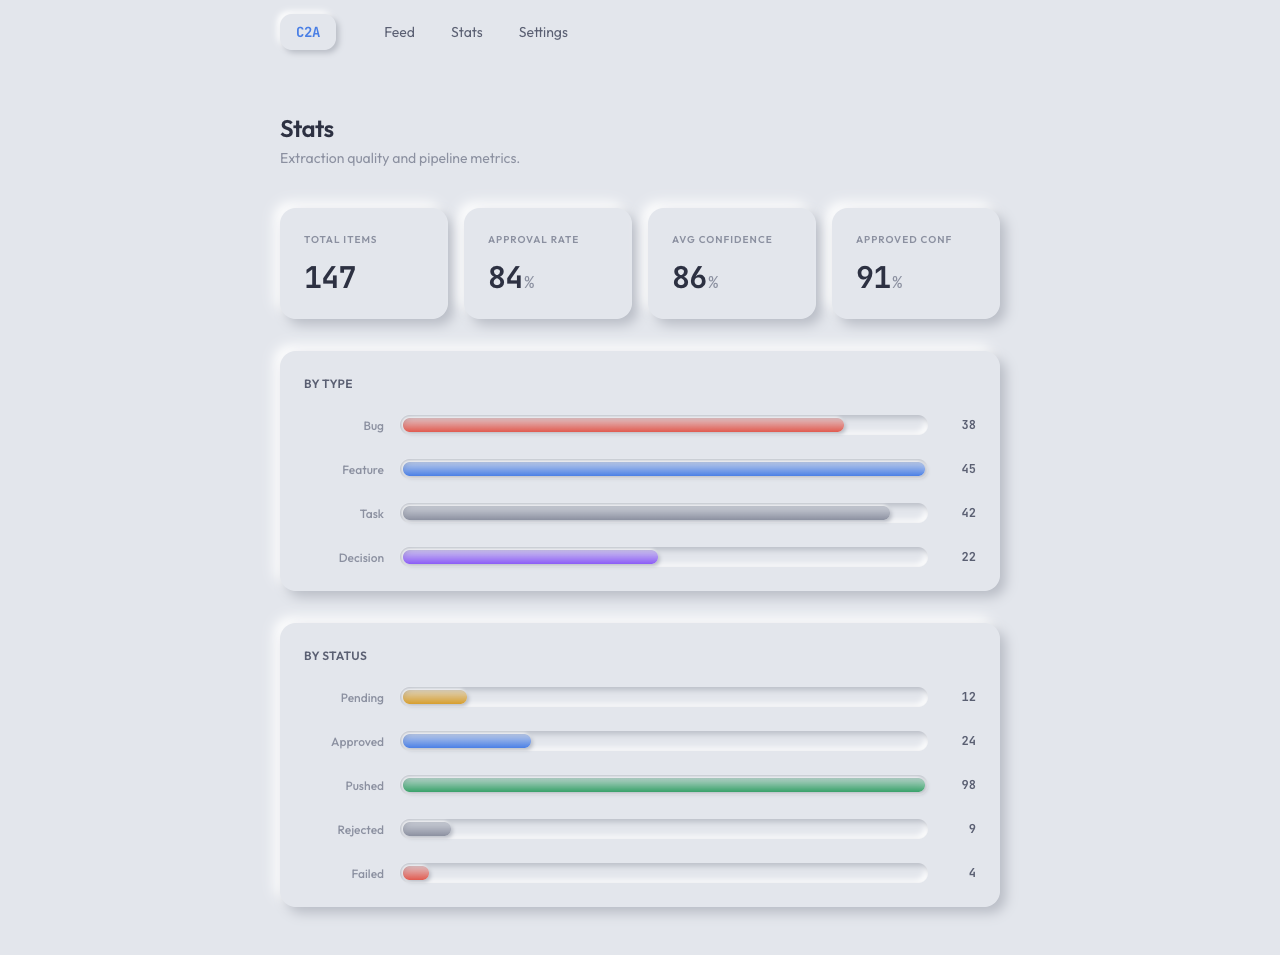
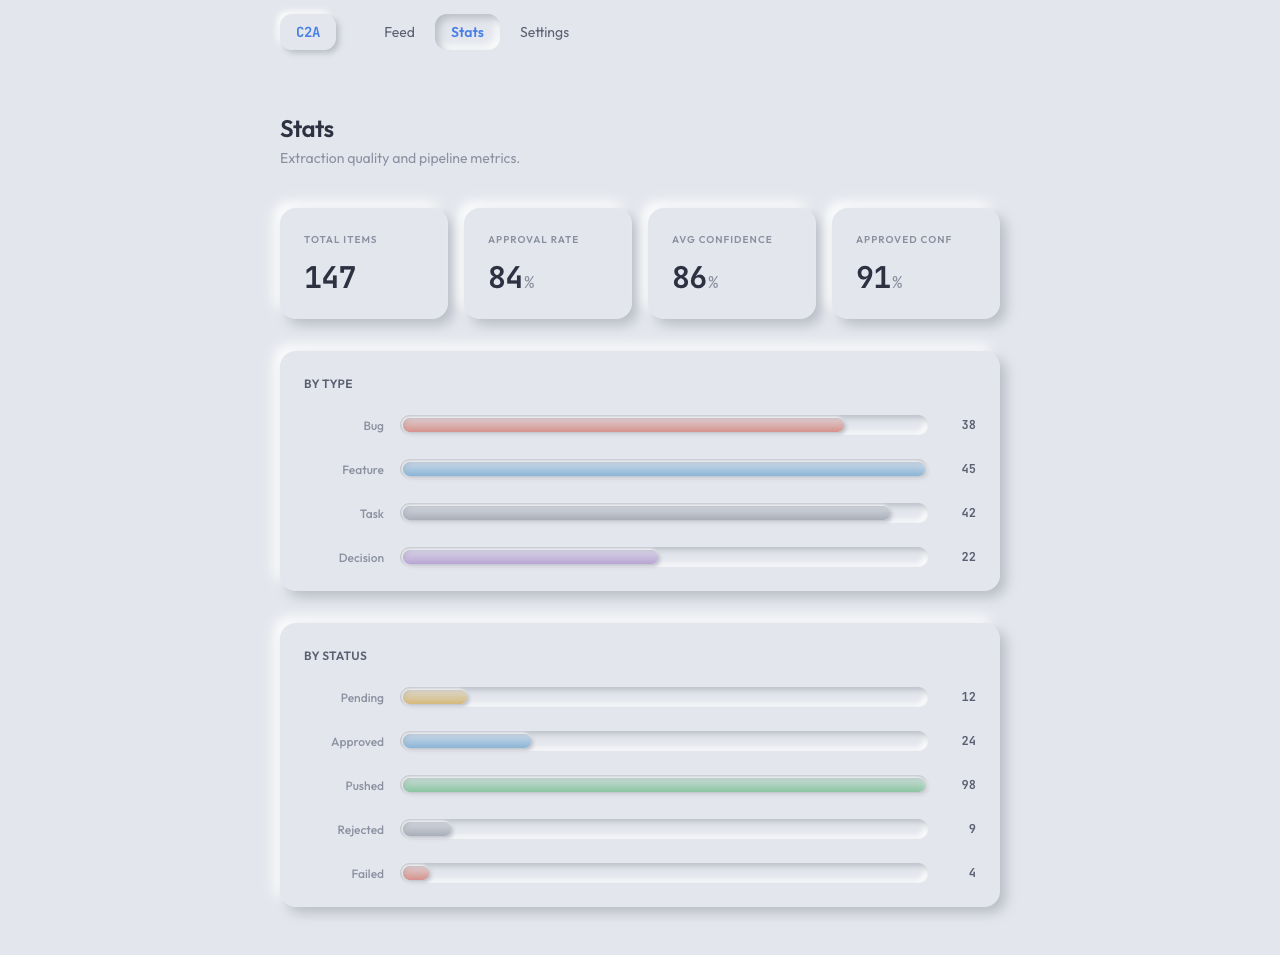
ui: active nav state per page, muted pastel bar colors
Nav is now a client component that highlights the active page link
with inset shadow. Bar chart colors shifted to desaturated pastels
that blend with the neumorphic surface instead of contrasting.

diff --git a/src/components/Nav.tsx b/src/components/Nav.tsx
@@ -1,0 +1,42 @@
+'use client';
+
+import Link from 'next/link';
+import { usePathname } from 'next/navigation';
+
+const LINKS = [
+  { href: '/', label: 'Feed', match: (p: string) => p === '/' || p.startsWith('/demo') && !p.includes('/stats') && !p.includes('/settings') && !p.includes('/item') },
+  { href: '/stats', label: 'Stats', match: (p: string) => p.includes('/stats') },
+  { href: '/settings', label: 'Settings', match: (p: string) => p.includes('/settings') },
+];
+
+export default function Nav() {
+  const pathname = usePathname();
+
+  return (
+    <nav className="bg-surface-0">
+      <div className="max-w-3xl mx-auto px-6 h-16 flex items-center gap-8">
+        <Link href="/" className="font-bold text-accent tracking-tight text-sm font-mono shadow-[var(--shadow-neu-sm)] rounded-xl px-4 py-2 bg-surface-0">
+          C2A
+        </Link>
+        <div className="flex items-center gap-1">
+          {LINKS.map(({ href, label, match }) => {
+            const active = match(pathname);
+            return (
+              <Link
+                key={href}
+                href={href}
+                className={`text-sm px-4 py-2 rounded-xl transition-all duration-200 ${
+                  active
+                    ? 'text-accent font-semibold shadow-[var(--shadow-neu-inset)]'
+                    : 'text-text-secondary hover:text-text-primary hover:shadow-[var(--shadow-neu-sm)]'
+                }`}
+              >
+                {label}
+              </Link>
+            );
+          })}
+        </div>
+      </div>
+    </nav>
+  );
+}

diff --git a/src/app/layout.tsx b/src/app/layout.tsx
@@ -1,6 +1,6 @@
 import type { Metadata } from "next";
 import { Outfit, JetBrains_Mono } from "next/font/google";
-import Link from "next/link";
+import Nav from "@/components/Nav";
 import "./globals.css";
 
 const outfit = Outfit({
@@ -18,29 +18,6 @@ const jetbrainsMono = JetBrains_Mono({
 export const metadata: Metadata = {
   title: "Conversation to Action",
 };
-
-function Nav() {
-  return (
-    <nav className="bg-surface-0">
-      <div className="max-w-3xl mx-auto px-6 h-16 flex items-center gap-8">
-        <Link href="/" className="font-bold text-accent tracking-tight text-sm font-mono shadow-[var(--shadow-neu-sm)] rounded-xl px-4 py-2 bg-surface-0">
-          C2A
-        </Link>
-        <div className="flex items-center gap-1">
-          <Link href="/" className="text-sm text-text-secondary hover:text-text-primary transition-colors px-4 py-2 rounded-xl hover:shadow-[var(--shadow-neu-sm)]">
-            Feed
-          </Link>
-          <Link href="/stats" className="text-sm text-text-secondary hover:text-text-primary transition-colors px-4 py-2 rounded-xl hover:shadow-[var(--shadow-neu-sm)]">
-            Stats
-          </Link>
-          <Link href="/settings" className="text-sm text-text-secondary hover:text-text-primary transition-colors px-4 py-2 rounded-xl hover:shadow-[var(--shadow-neu-sm)]">
-            Settings
-          </Link>
-        </div>
-      </div>
-    </nav>
-  );
-}
 
 export default function RootLayout({
   children,

diff --git a/src/components/StatsCharts.tsx b/src/components/StatsCharts.tsx
@@ -72,18 +72,18 @@ function BarChart({ title, data, colors }: BarChartProps) {
 }
 
 const TYPE_COLORS: Record<string, string> = {
-  bug:      '#e05a4f',
-  feature:  '#4a7fe5',
-  task:     '#8b90a0',
-  decision: '#8b5cf6',
+  bug:      '#d4918a',
+  feature:  '#8ab4d6',
+  task:     '#a8adb8',
+  decision: '#b8a4d4',
 };
 
 const STATUS_COLORS: Record<string, string> = {
-  pending:  '#d69e2e',
-  approved: '#4a7fe5',
-  rejected: '#8b90a0',
-  pushed:   '#38a169',
-  failed:   '#e05a4f',
+  pending:  '#d4b87a',
+  approved: '#8ab4d6',
+  rejected: '#a8adb8',
+  pushed:   '#8ac4a0',
+  failed:   '#d4918a',
 };
 
 export default function StatsCharts() {
